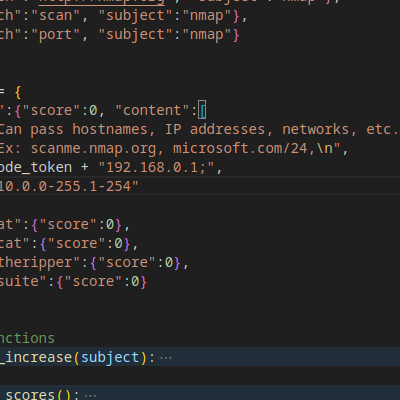
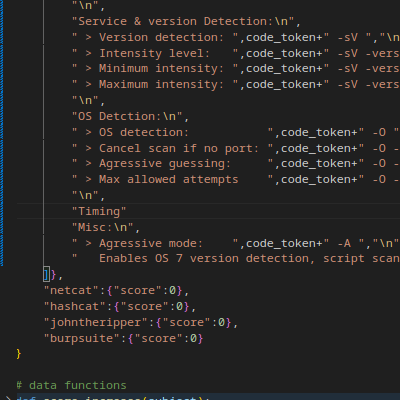
Scrollable added + styling + content

diff --git a/goose.py b/goose.py
@@ -21,7 +21,7 @@ window_height = 600
 window_dimensions = str(window_width) + "x" + str(window_height)
 background_colour = "#12100E"
 title_font_size = 14
-label_font_size = 11
+text_font_size = 9
 
 # image configurations
 screenshot_path = "./goose_snip.png"
@@ -46,15 +46,95 @@ keywords = [
     {"match":"nmap.org", "subject":"nmap"},
     {"match":"http://nmap.org", "subject":"nmap"},
     {"match":"scan", "subject":"nmap"},
-    {"match":"port", "subject":"nmap"}
+    {"match":"port", "subject":"nmap"},
+    {"match":"netcat", "subject":"netcat"},
+    {"match":"nc", "subject":"netcat"},
+    {"match":"johntheripper", "subject":"johntheripper"},
+    {"match":"john", "subject":"johntheripper"},
+    {"match":"ripper", "subject":"johntheripper"},
+    {"match":"hash", "subject":"johntheripper"},
+    {"match":"https://www.openwall.com/john/", "subject":"johntheripper"},
+    {"match":"solar", "subject":"johntheripper"},
+    {"match":"hashcat", "subject":"hashcat"},
+    {"match":"hash", "subject":"hashcat"},
+    {"match":"cat", "subject":"hashcat"},
+    {"match":"burp", "subject":"burpsuite"},
+    {"match":"suite", "subject":"burpsuite"},
+    {"match":"community", "subject":"burpsuite"},
+    {"match":"repeater", "subject":"burpsuite"},
+    {"match":"proxy", "subject":"burpsuite"},
+    {"match":"intruder", "subject":"burpsuite"}
 ]
 
 subjects = {
     "nmap":{"score":0, "content":[
-        "Can pass hostnames, IP addresses, networks, etc.",
-        "Ex: scanme.nmap.org, microsoft.com/24,\n",
-        code_token + "192.168.0.1;",
-        "10.0.0-255.1-254"
+        "Syntax:\n",
+        code_token + " nmap [Scan Type] [Options] {target specification} ","\n\n",
+        "Target Specification:\n",
+        " > Single IP:    ",code_token+" nmap <ip_address> ","\n",
+        " > Specific IPs: ",code_token+" nmap <ip_address> <ip_address> ","\n",
+        " > IP range:     ",code_token+" nmap <ip_address>-<quadrant> ","\n",
+        " > Domain:       ",code_token+" nmap <domain_name> ","\n",
+        " > CIDR range:   ",code_token+" nmap <ip_address>/<subnet_mask> ","\n",
+        " > From file:    ",code_token+" nmap -iL <file_name> ","\n",
+        " > Random hosts: ",code_token+" nmap -iR <number> ","\n",
+        " > Exclude IPs:  ",code_token+" nmap -exclude <ip_address> ","\n",
+        "\n",
+        "Port Specification:\n",
+        " > Single port:      ",code_token+" -p <port> ","\n",
+        " > Specific ports:   ",code_token+" -p <port>,<port> ","\n",
+        " > TCP & UDP ports:  ",code_token+" -p U:<port>,T:<port>","\n",
+        " > Port range:       ",code_token+" -p <port>-<port> ","\n",
+        " > All ports:        ",code_token+" -p- ","\n",
+        " > Service name:     ",code_token+" -p <service_name>","\n",
+        " > Fast (100 ports): ",code_token+" -F ","\n",
+        "\n",
+        "Scan Techniques:\n",
+        " > TCP SYN port scan:      ",code_token+" -sS ","\n",
+        " > TCP connect port scan:  ",code_token+" -sT ","\n",
+        " > UDP port scan:          ",code_token+" -sU ","\n",
+        " > TCP ACK port scan:      ",code_token+" -sA ","\n",
+        " > TCP Window port scan:   ",code_token+" -sW ","\n",
+        " > TCP Maimon port scan:   ",code_token+" -sM ","\n",
+        "\n",
+        "Host Discovery:\n",
+        " > List targets only:      ",code_token+" -sL ","\n",
+        " > Disable port scan:      ",code_token+" -sn ","\n",
+        " > Disable host disovery:  ",code_token+" -Pn ","\n",
+        " > TCP SYN scan on port:   ",code_token+" -PS<port> ","\n",
+        " > TCP ACK scan on port:   ",code_token+" -PA<port> ","\n",
+        " > UDP scan on port:       ",code_token+" -PU<port> ","\n",
+        " > ARP discovery local:    ",code_token+" -PR ","\n",
+        " > Disable DNS resolution: ",code_token+" -n  ","\n",
+        "\n",
+        "Service & version Detection:\n",
+        " > Version detection: ",code_token+" -sV ","\n",
+        " > Intensity level:   ",code_token+" -sV -version-intensity <0-9> ","\n",
+        " > Minimum intensity: ",code_token+" -sV -version-light ","\n",
+        " > Maximum intensity: ",code_token+" -sV -version-all ","\n",
+        "\n",
+        "OS Detction:\n",
+        " > OS detection:           ",code_token+" -O ","\n",
+        " > Cancel scan if no port: ",code_token+" -O -osscan-limit ","\n",
+        " > Agressive guessing:     ",code_token+" -O -osscan-guess ","\n",
+        " > Max allowed attempts    ",code_token+" -O -max-os-tries <number> ","\n",
+        "\n",
+        "Timing Pre-set:\n",
+        " > Paranoid  (IDS evasive): ",code_token+" -T0 ","\n",
+        " > Sneaky    (IDS evasive): ",code_token+" -T1 ","\n",
+        " > Polite (less resources): ",code_token+" -T2 ","\n",
+        " > Normal        (default): ",code_token+" -T3 ","\n",
+        " > Aggressive       (fast): ",code_token+" -T4 ","\n",
+        " > Insane       (too fast): ",code_token+" -T5 ","\n",
+        "\n",
+        "Timing & Performance:\n",
+        " > Timout time (s/m/h):          ",code_token+" -host-timeout <time> ","\n",
+        " > Max scan retries:             ",code_token+" -max-retries <number> ","\n",
+        " > Min packet rate (per second): ",code_token+" -min-rate <number> ","\n",
+        " > Max packet rate (per second): ",code_token+" -max-rate <number> ","\n",
+        "Misc:\n",
+        " > Agressive mode:    ",code_token+" -A ","\n",
+        "   Enables OS 7 version detection, script scanning and traceroute.\n"
     ]},
     "netcat":{"score":0},
     "hashcat":{"score":0},
@@ -136,7 +216,6 @@ def update_results(subject):
 # user interface functions
 def create_window(window):
     window.title("Goose")
-    #window.iconbitmap('./path')
     window.geometry(window_dimensions)
     window.resizable(width=window_resizable, height=window_resizable)
     window.attributes('-topmost', window_topmost)
@@ -156,27 +235,30 @@ def show_data(subject):
         justify=CENTER,
         padx=0,
         pady=8,
-        font=("Arial", title_font_size, "bold"),
-        bg=background_colour,
-        ).pack()
-    
+        font=("monospace", title_font_size, "bold"),
+        bg=background_colour)
+    title.place(x = 0, y = 0, height = 40, width = window_width)
+
     # create text widget for content
     text = Text(window,
-        font=("Arial", label_font_size),
+        font=("monospace", text_font_size),
         bg=background_colour,
         padx=8,
         pady=2,
         wrap=WORD,
         borderwidth=0,
-        highlightthickness=0)
-    text.config(state=NORMAL)
+        highlightthickness=0,
+        state=NORMAL)
+    text.place(x = 0, y = 50, height = window_height-50, width = window_width)
+
+    scrollbar = Scrollbar(window, orient="vertical", command=text.yview)
+    scrollbar.place(x = window_width - 12, y = 50, height = window_height - 50, width = 12)
+
+    text['yscrollcommand'] = scrollbar.set
 
     # styling configurations
-    text.tag_configure("code_style", 
-        background='Light Grey',
-        foreground=background_colour)
+    text.tag_configure("code_style", background='Light Grey', foreground=background_colour)
 
-    # get content
     content = subjects[subject]["content"]
 
     # add content to text widget line by line
@@ -190,9 +272,8 @@ def show_data(subject):
     
     # make widget non-editable
     text.config(state=DISABLED)
-    text.pack()
 
-    window.update()
+    window.mainloop()
 
 # primary function
 def main():
